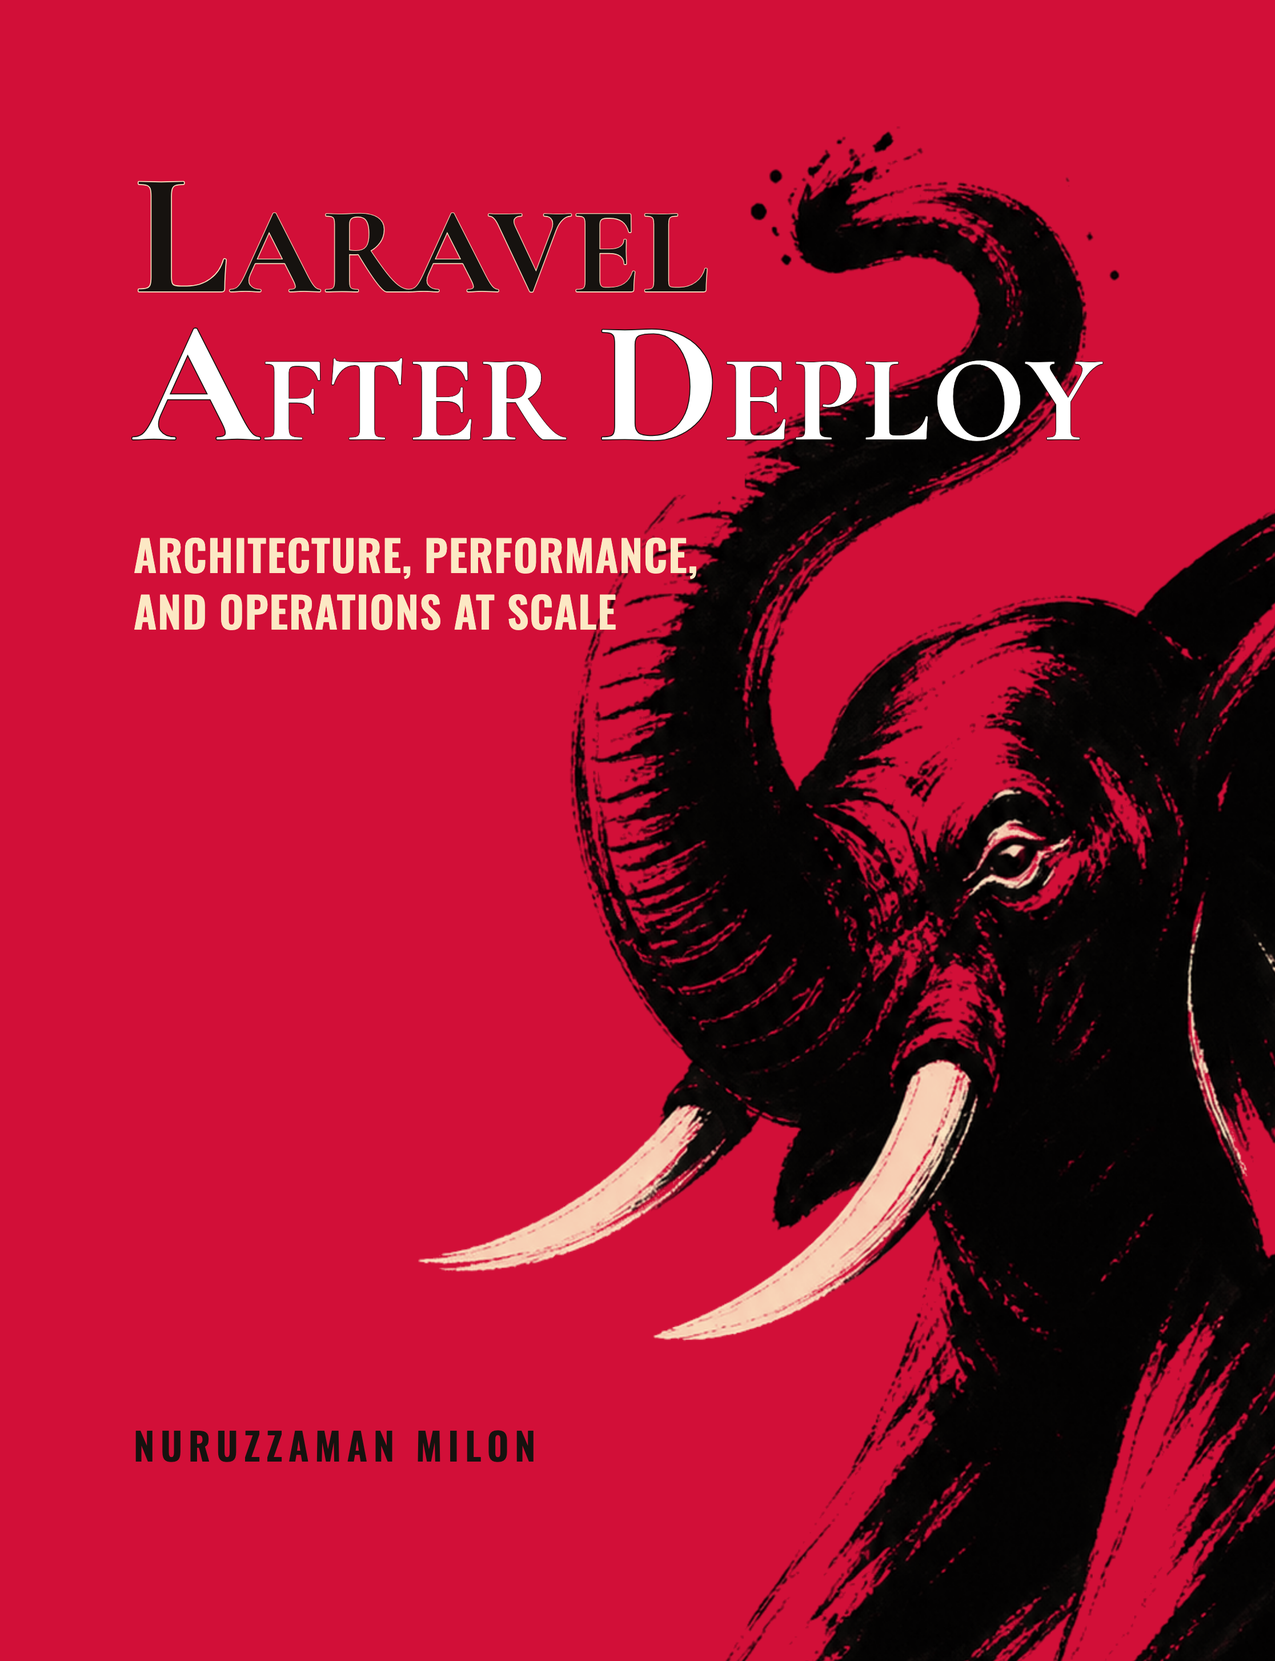
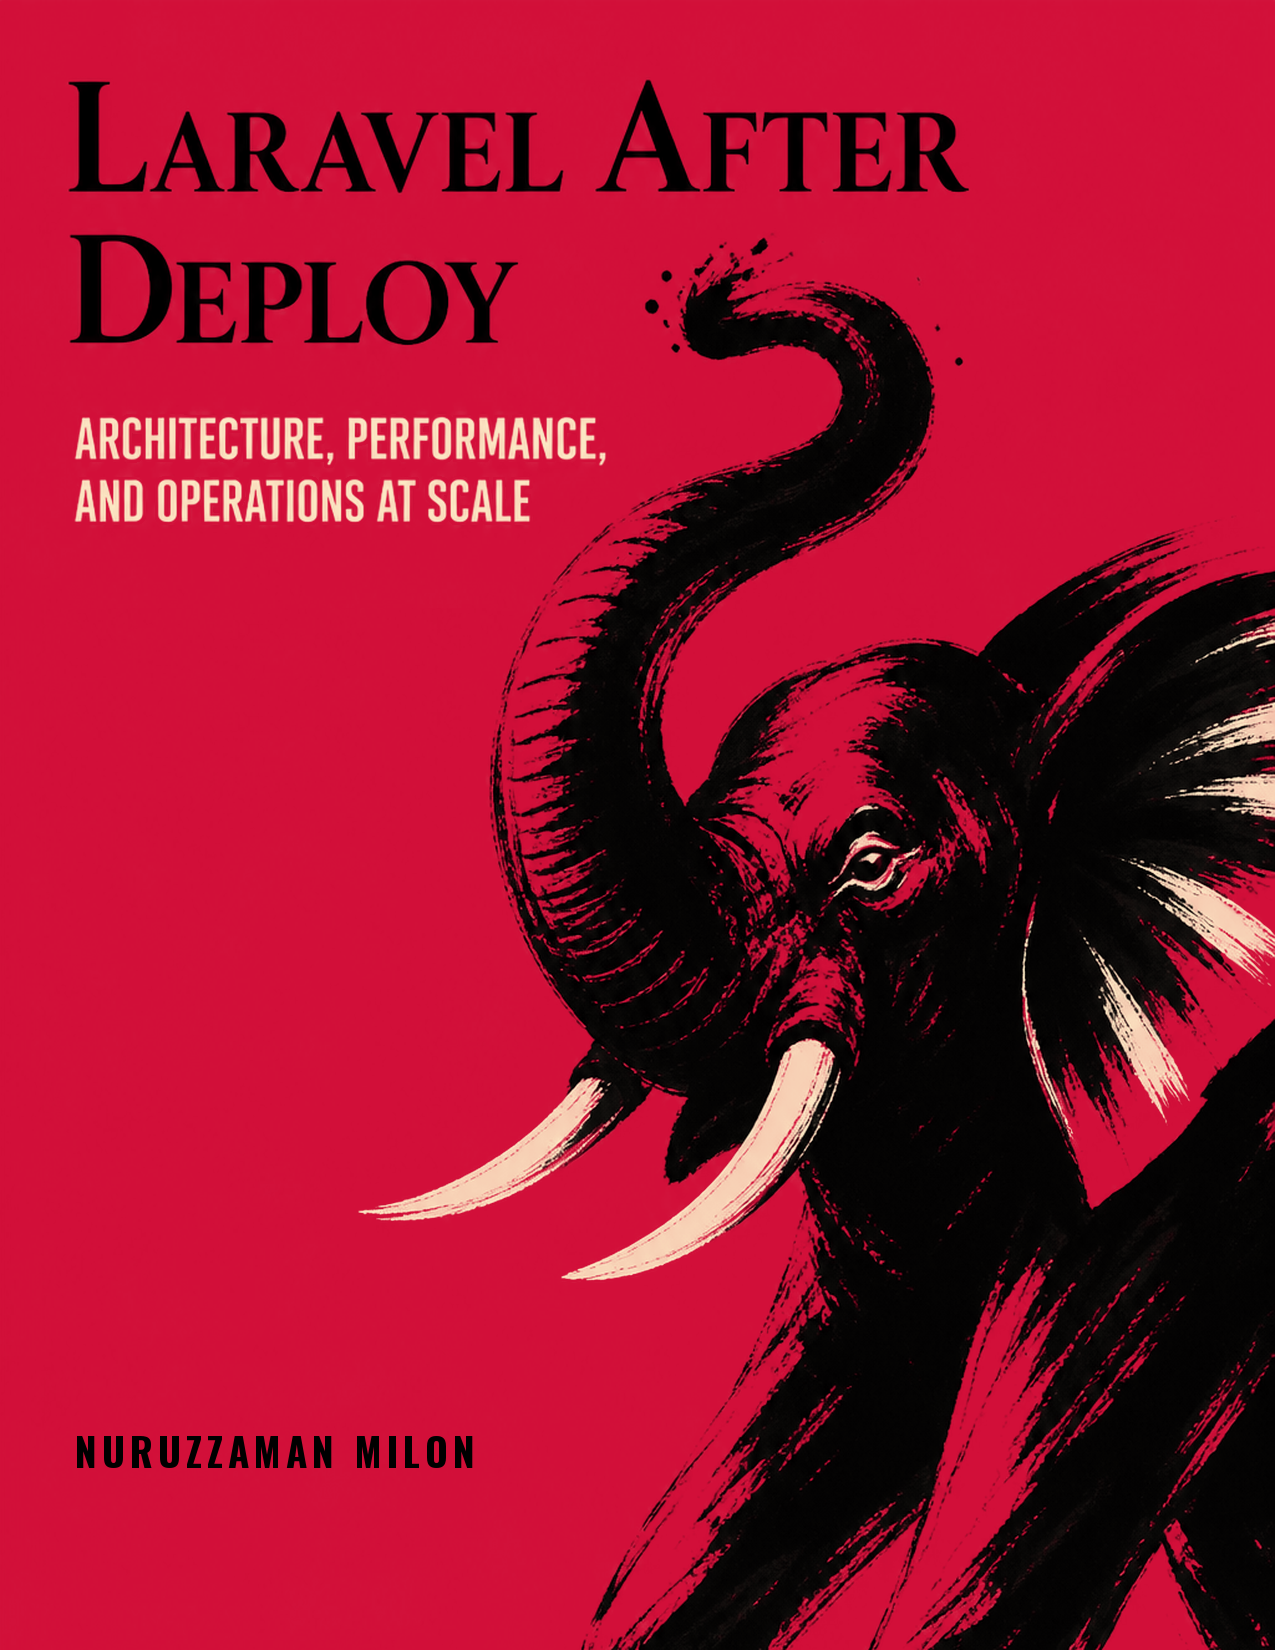
Update books page

diff --git a/source/_assets/sass/main.scss b/source/_assets/sass/main.scss
@@ -792,18 +792,6 @@ iframe {
     color: var(--secondary-color);
 }
 
-.badge-coming-soon {
-    display: inline-block;
-    font-size: 0.6em;
-    font-weight: 600;
-    padding: 3px 8px;
-    border-radius: 4px;
-    background-color: var(--primary-color);
-    color: var(--background-color);
-    vertical-align: middle;
-    letter-spacing: 0.5px;
-    text-transform: uppercase;
-}
 
 .book-content h3 {
     font-family: var(--header-font);

diff --git a/source/books.blade.php b/source/books.blade.php
@@ -15,9 +15,9 @@
             <div class="book-edition">
                 <img class="book" src="/assets/images/book/laravel-after-deploy/cover.png" alt="Laravel in Production Cover">
                 <div class="book-content">
-                    <h3>Laravel After Deploy <span class="badge-coming-soon">Coming Soon</span></h3>
+                    <h3>Laravel After Deploy</h3>
                     <p class="book-subtitle">Architecture, Performance, and Operations at Scale</p>
-                    <p>Shipping a Laravel application is the easy part. The hard part starts after deploy: when a flash sale or a viral post turns usual traffic into a spike, when bots hammer your login endpoint, when a dependency you don't control has a bad afternoon, when the same webhook arrives twice, when the on-call phone rings at 3 a.m. and the answer isn't in the framework docs. This book is about that layer - the decisions that keep a real system fast, correct, and operable once it's already in production.</p>
+                    <p>Shipping is the easy part. The hard part starts after deploy: when a flash sale or a viral post turns usual traffic into a spike, when bots hammer your login endpoint, when a dependency you don’t control has a bad afternoon, when the same webhook arrives twice, when the on-call phone rings at 3 a.m. and the answer isn’t in the framework docs. This book is about that layer — the decisions that keep a real system fast, correct, and operable once it’s already in production. The examples are Laravel and PHP by design; the problems are not Laravel-only.</p>
                     <p><a href="https://laravel-after-deploy.milon.im/">Learn more & get notified →</a></p>
                 </div>
             </div>
